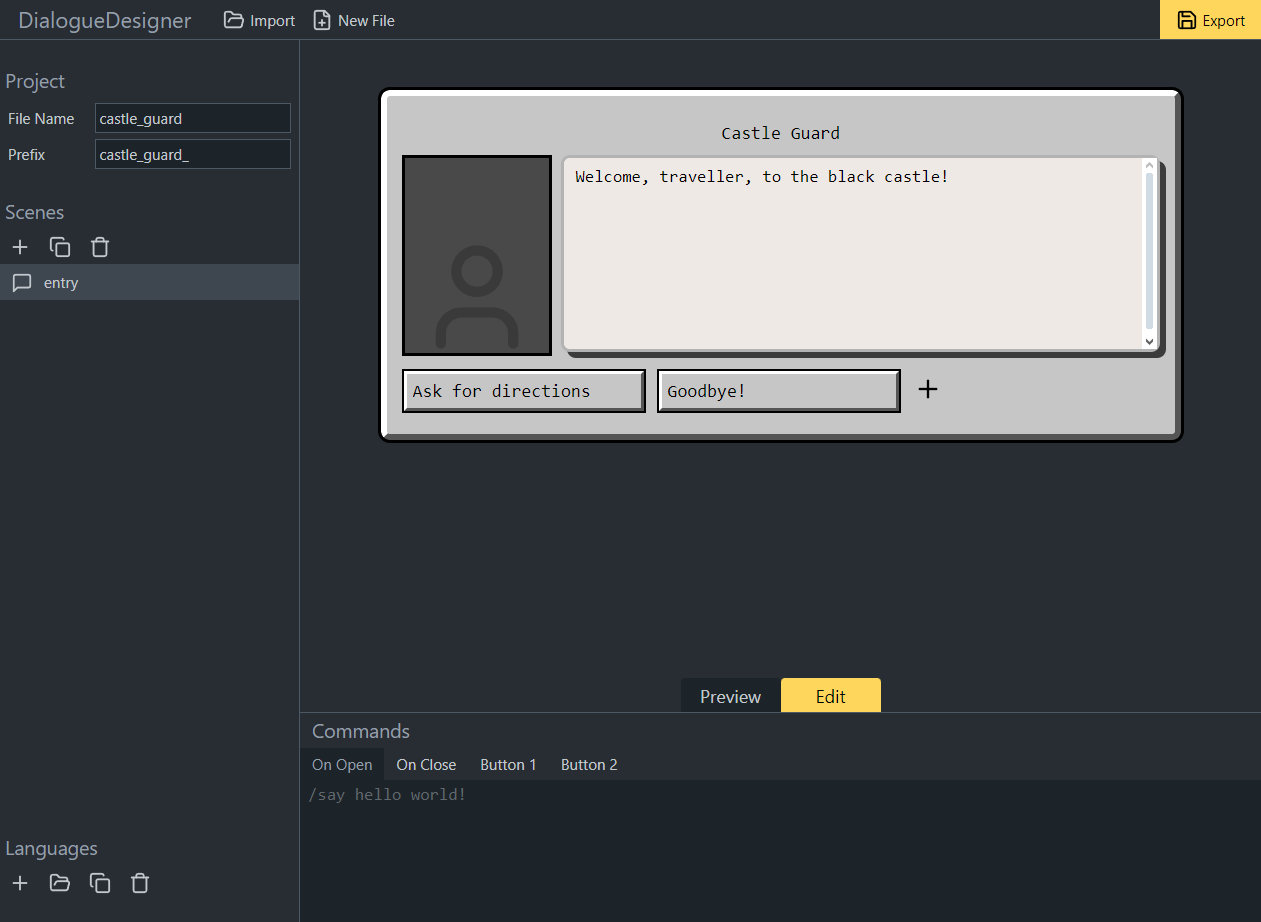
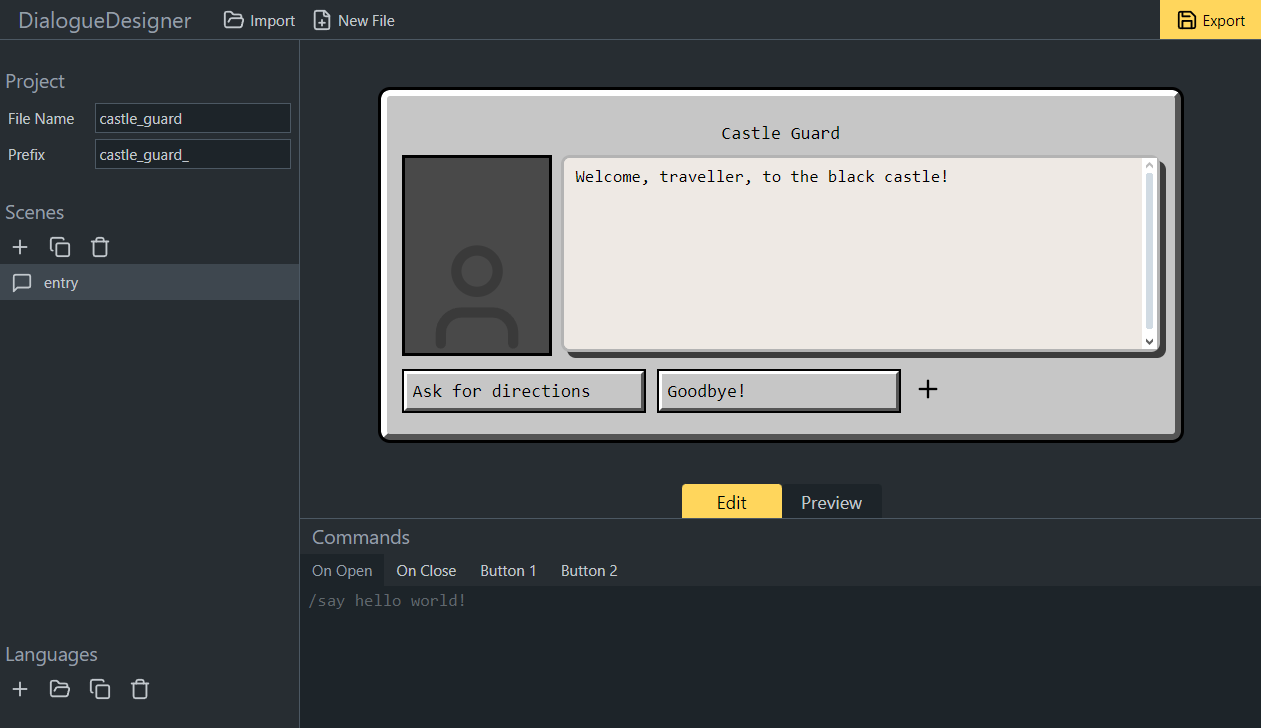
Complete documentation

diff --git a/docs/documentation.md b/docs/documentation.md
@@ -1,26 +1,37 @@
+---
+author: JannisX11
+title: Create an NPC Dialogue
+description: "This tutorial shows how to create NPC entities with dialogue windows, using the DialogueDesigner tool."
+ms.service: minecraft-bedrock-edition
+---
+
+
 # Create an NPC Dialogue
 
 This tutorial shows how to create NPC entities with dialogue windows, using the DialogueDesigner tool.
-NPC dialogues are a great way to add stories to your custom map, they can be used for anything - from a simple text to provide information to the player - to complex multi page conversations with different reply options to choose from.
+NPC dialogues are a great way to add stories to your custom map. They can be used for anything from a simple text to provide information to the player, to complex multi page conversations with different reply options to choose from.
 
 
 ### Requirements
 
-Before learning how to create NPC dialogues, it is recommended that you understand the basics of creating resource and behavior packs, as well as the basics of creating custom entities.
-The [Minecraft Entity Wizard](https://learn.microsoft.com/en-us/minecraft/creator/documents/minecraftentitywizard) can be used to make this easier.
+Before learning how to create NPC dialogues, it is recommended that you understand the basics of creating resource and behavior packs.
+
+An NPC entity is required to use the dialogue. For simple applications, the built-in Minecraft NPC entity can be used, it comes with a list of texture presets for a lot of situations. But for custom designs, it is required to create a new entity. The [Minecraft Entity Wizard](https://learn.microsoft.com/en-us/minecraft/creator/documents/minecraftentitywizard) can be used to make this easier.
 
 - [Introduction to Behavior Packs](BehaviorPack.md)
 - [Introduction to Resource Packs](ResourcePack.md)
 - [Creating New Entity Types](https://learn.microsoft.com/en-us/minecraft/creator/documents/introductiontoaddentity?view=minecraft-bedrock-stable)
 
 
+
 ## Set-up
 
-Before getting started with the dialogue, we should create our NPC entity.
+Before getting started with the dialogue, we should set up our NPC entity.
 If you are using the Entity Wizard, proceed by creating an entity with the "NPC" behavior preset.
-If you are creating the NPC from scratch, make sure to include the `"minecraft:npc"` component.
+If you are creating the NPC from scratch, make sure to include the `"minecraft:npc"` component and a type family called `"npc"`.
 
 You can also use the NPC entity that is included with Minecraft and comes with a list of preset skins. You can use it by searching for the "NPC Spawn Egg" in the creative inventory, and using that spawn egg.
+
 
 
 ## Creating a dialogue
@@ -41,42 +52,125 @@ Each dialogue file can contain any number of scenes. Scenes are individual dialo
 You can create individual scenes, or create more complex conversations by linking different scenes together via buttons that the player can press.
 
 Let's add our first scene by pressing the plus button in the sidebar under **Scenes**. This will create a scene.
-You can rename scene by double-clicking its name in the sidebar. We'll call it `entry` because it will be the entry point to our conversation.
+You can rename the scene by double-clicking its name in the sidebar. We'll call it `entry` because it will be the entry point to our conversation.
 
 The main workspace of the screen will now be split into two sections.
 At the top, you can see a preview of the dialogue pop-up in-game.
 At the bottom, you can configure custom commands that run when the dialogue is opened, closed, or later on when a button is pressed.
 
-To edit the dialogue, we'll start by switching to Edit mode. You can do this by clicking the buttons below the dialogue preview.
+Using the two buttons between the preview and the commands selection, you can switch between Edit and Preview mode. In Edit mode, you can edit the dialogue, while Preview mode allows you to see how it will look and behave in-game.
 
-The dialogue onw displays three separate sections that you can edit: The title, the body, and the button row.
+The dialogue has three separate sections that you can edit: The title, the body, and the button row.
 
 Let's enter our text into the title and body text field.
 
-We'll also press the plus sign in the button row two times to create buttons
+We'll also press the plus sign in the button row two times to create two buttons.
 
-![entry.png]
+![Entry page](entry.png)
 
 Let's also create a second page, named `directions`, that looks like this:
 
-![directions.png]
+![Directions page](directions.png)
+
 
 ### Linking scenes
 
-We can now go back to the entry scene, select the Directions button, and change the navigation option to `directions`.
-This will tell the button to open the directions scene when clicked.
+We can now go back to the entry scene, select the "Directions" button, and change the navigation option to `directions`.
+This will tell the button to open the "directions" scene when clicked.
 
-Use the mode selector and switch back to Preview mode to test this. Clicking the button should now navigate to the Directions scene.
+Use the mode selector and switch to Preview mode to test this. Clicking the button should now navigate to the Directions scene.
 Clicking the "Goodbye!" button will close the dialog. That is the default behavior for buttons.
 
 
 ### Commands
 
+Commands allow us to customize the NPC dialogue further. As an example, let's add a sound that plays when a player starts talking to an NPC.
 
+Switch to the "entry" scene, locate the "On Open" tab in the Commands section at the bottom, and enter this command:
+
+```
+playsound mob.villager.haggle @initiator
+```
+
+Here we are using the playsound command to play the villager haggle sound. The `@initiator` targets the player who has opened the dialogue. `@s` in this case would select the NPC entity.
+You can learn more about commands here: [Introduction to Commands](https://learn.microsoft.com/en-us/minecraft/creator/documents/commandsintroduction)
 
 
 
 ## Export
 
+We are now ready to export the dialogue into Minecraft.
+To export the project, click the yellow "Export" button in the top right corner. This opens the Export window, which gives you all the instructions on how to implement your project into Minecraft.
+
+First, create a folder called `dialogue` inside your behavior pack. Download the dialogue file and place it into that folder.
+
+If you are using language files later on, you will also need to save them. More on that in the **Advanced features** section.
+
+Now open your Minecraft world with the behavior pack applied, and use the provided command to apply the dialogue to your NPC entity. The command will apply the dialogue to the closest NPC-type entity that's in an 8-block radius around you.
+
+After that, you can test your dialogue. Make sure you are in adventure or survival mode, then right-click the NPC. This should open the entry dialogue scene while playing the villager sound.
+
+You have now successfully created and implemented an NPC dialogue!
+
+
 
 ## Advanced features
+
+For more experienced users, DialogueDesigner offers some advanced features to support all features that the dialogue format provides.
+
+
+### Formatting
+
+You can use Minecraft's [Formatting codes](https://minecraft.wiki/w/Formatting_codes) to add formatting to your text, including making your text bold, italic, or changing the color.
+Simply enter the section sign (`§`), followed by a [specific number or letter](https://minecraft.wiki/w/Formatting_codes#Color_codes), into the text field, ahead of the word that you want to format. After the word, you can put `§r` to reset the formatting.
+
+Formatting codes can be used directly in text fields, in translations, or in raw JSON text.
+You can test formatting by switching to Preview mode.
+
+For example, the following code will render like this:
+
+```Sarah owns a §bDiamond§r, an §cApple§r, and an §7Iron Sword§r!```
+
+![Preview of the text above, but with certain words formatted in matching colors](formatting.png)
+
+
+### Translations
+
+Using translations, the dialogue can be made available in more than one language.
+
+Translations are saved in text files in the `texts` folder of the resource pack. They are saved as key-value pairs, where the key identifies the translation string, and the value provides the value in a specific language.
+
+You can get started by creating a Language in DialogueDesigner. In the bottom left, under Languages, press the Plus icon to create a language file. The first file that is created will be called `en_US`. This file is intended for American English, and it's also the fallback for when no translation is provided in the language that a player selects in Minecraft.
+
+You can now enter translations into the file:
+
+```
+dialogue.castle_guard.npc_name=Castle Guard
+```
+
+Each line provides a translation string. The part before the `=` sign is the key, the part after is the value that will be displayed to the player.
+
+Let's now create a second language file. The name defaults to `de_DE`, which is the code for German. But you can edit the code at the top of your screen to something like `it_IT` for Italian, etc. ([Full List](https://minecraft.wiki/w/Language)). We'll also add our translation string into this file, but translated into the respective language:
+
+```
+dialogue.castle_guard.npc_name=Burgwache
+```
+
+Now, let's switch back to our dialogue file. Make sure you are in edit mode, then click into any text field to edit it. A black box saying "Text" will appear in the corner of the input. Switch this option to "Translate". Now you can enter the translation key into the text field:
+
+```dialogue.castle_guard.npc_name```
+
+Switch to Preview mode, and you will see that the name from the language file is used.
+
+You can click on any of the language files that you have created in the left sidebar to preview your dialogue in that language. Double-click (or long-press) the language file to edit it again.
+
+
+### Raw JSON
+
+Another powerful way to customize your text is to use JSON Rawtext. This allows you to mix and match text with translations, and you can even include dynamic data such as scoreboard values in your text.
+
+To edit raw JSON, select a text field, and set the text type selector to "Raw JSON". This will open a pop-up, in which you can edit the raw JSON.
+
+Once you are done, press the Confirm button. If there are JSON syntax errors, a red error message will show up and prevent you from saving your changes. Fix the JSON error to proceed.
+
+You can learn more about the rawtext format here: [Raw JSON text format](https://minecraft.wiki/w/Raw_JSON_text_format#Bedrock_Edition)
